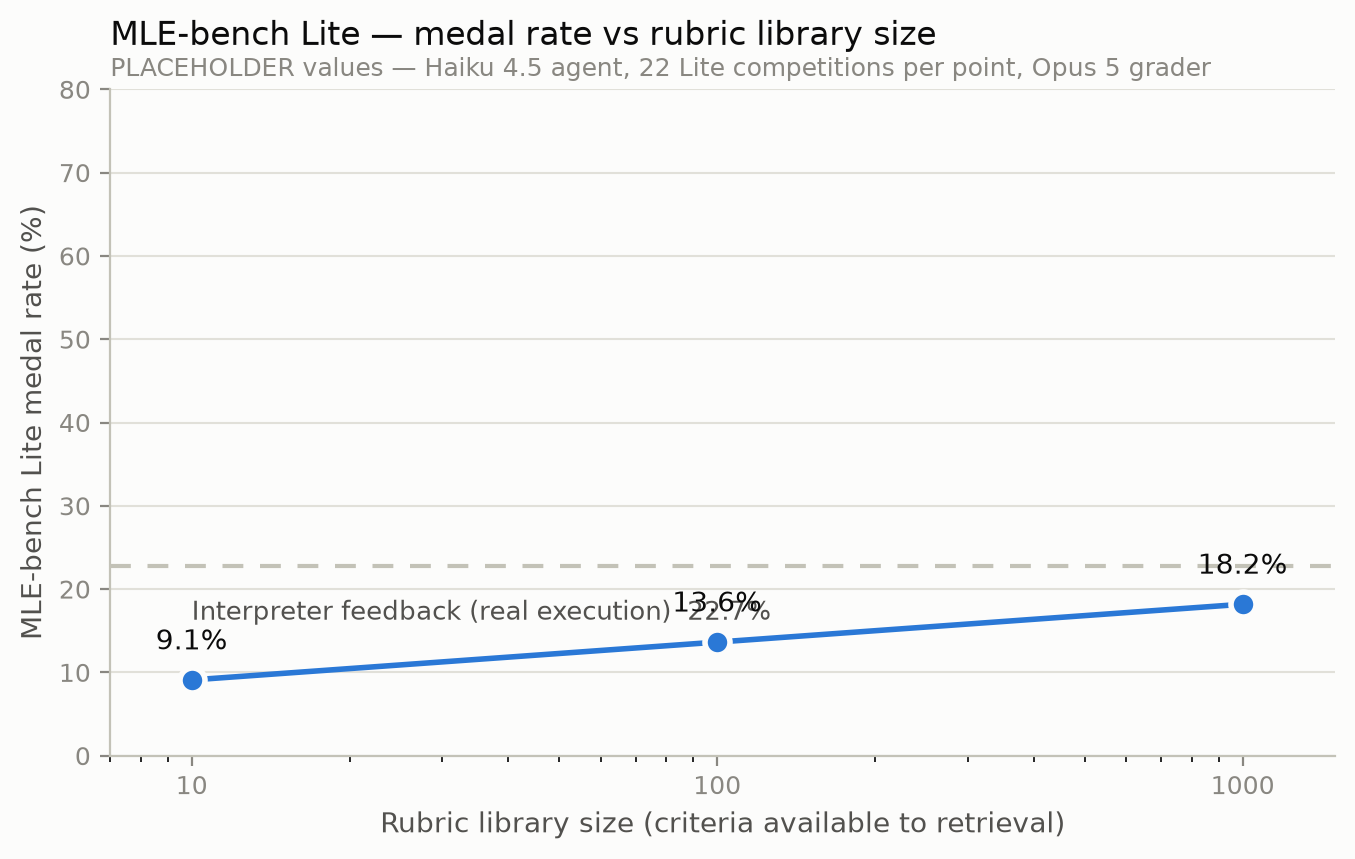
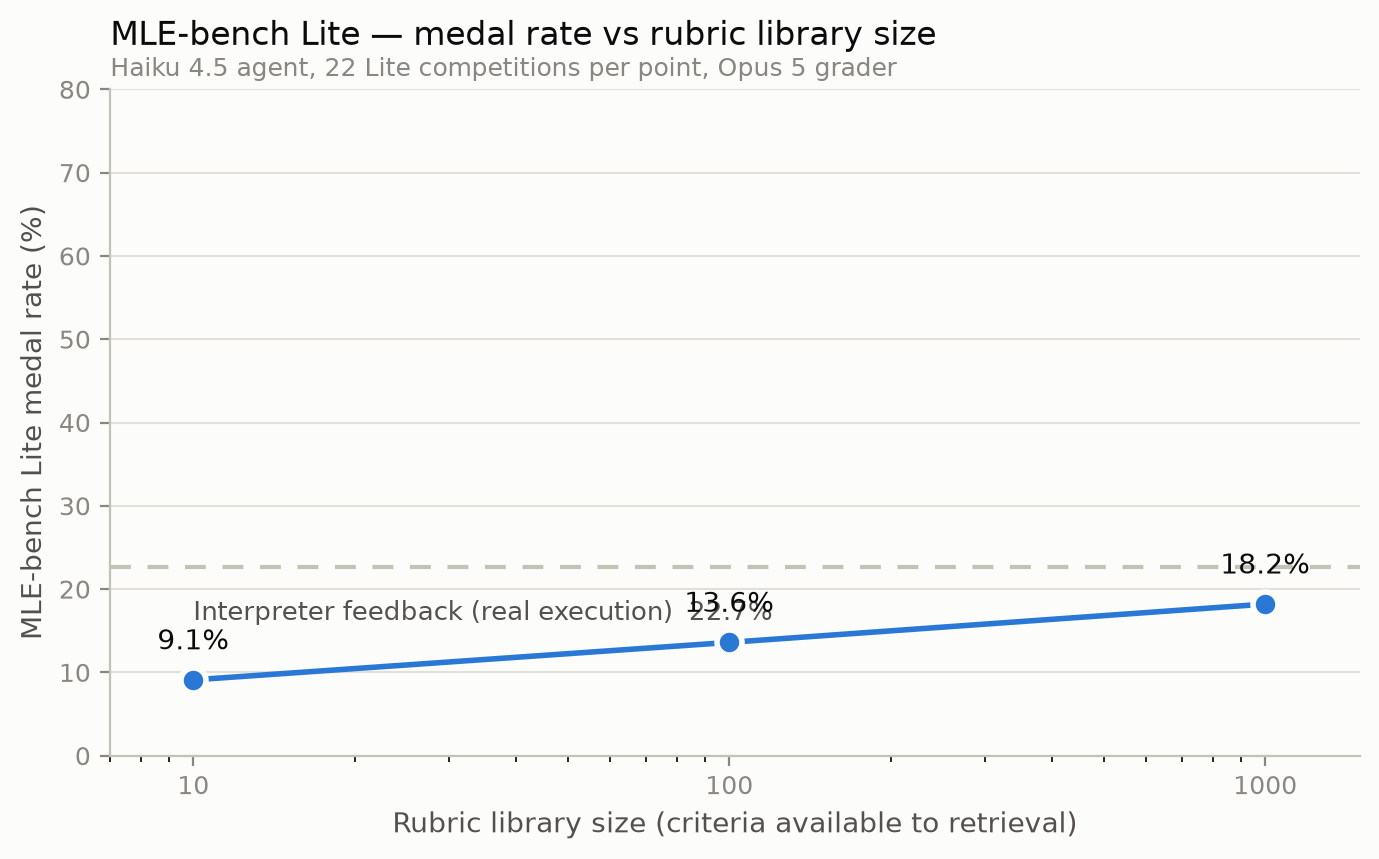
Drop placeholder labels from the MLE scaling plot and page

diff --git a/0831_updates.html b/0831_updates.html
@@ -17,10 +17,6 @@ a{color:var(--accent)}a:hover{text-decoration:underline}
 b,strong{color:var(--ink)}
 code{font-family:ui-monospace,SFMono-Regular,Menlo,monospace;font-size:12.5px;
  background:rgba(128,128,128,.13);padding:1px 5px;border-radius:3px}
-.tag{display:inline-block;font-size:11px;font-weight:600;letter-spacing:.04em;
- padding:2px 8px;border-radius:20px;vertical-align:2px;margin-left:8px;
- background:#fdf1cf;color:#7a5c05}
-@media (prefers-color-scheme:dark){.tag{background:#3d3312;color:#e6cb6b}}
 img{max-width:100%;height:auto;border:1px solid var(--grid);border-radius:6px;margin:14px 0;background:#fff}
 .fig{background:#fff;border:1px solid var(--grid);border-radius:8px;padding:14px;margin:14px 0}
 .fig svg{display:block;width:100%;height:auto}
@@ -31,7 +27,7 @@ footer{margin-top:56px;padding-top:14px;border-top:1px solid var(--grid);
 <p style="margin:0 0 22px"><a href="index.html">&larr; back to the main dashboard</a></p>
 
 <h1>8/31 updates</h1>
-<p class="sub">New agent architecture &middot; scaled to SWE-bench &middot; MLE-bench placeholder</p>
+<p class="sub">New agent architecture &middot; SWE-bench scaling &middot; MLE-bench scaling</p>
 
 <h2><span class="n">1</span>We changed to this agent architecture</h2>
 <p>The harness is now <a href="https://github.com/EdwardoSunny/cwm-agent">cwm-agent</a>, a
@@ -120,8 +116,8 @@ instead of the interpreter output. Agent, model and submission code are identica
 <h2><span class="n">3</span>SWE-bench scaling</h2>
 <img src="assets/rubric-scaling-swe.png" alt="SWE-bench Verified resolve rate vs rubric library size">
 
-<h2><span class="n">4</span>MLE-bench scaling<span class="tag">placeholder</span></h2>
-<img src="assets/rubric-scaling-mle.png" alt="MLE-bench Lite medal rate vs rubric library size (placeholder)">
+<h2><span class="n">4</span>MLE-bench scaling</h2>
+<img src="assets/rubric-scaling-mle.png" alt="MLE-bench Lite medal rate vs rubric library size">
 
 <footer>Scaling plots: <code>make_0831_plots.py</code> in this repo (hardcoded values).
 The live SWE plot code is <code>plot_scaling.py</code> at the cwm-agent repo root

diff --git a/make_0831_plots.py b/make_0831_plots.py
@@ -1,4 +1,4 @@
-"""Scaling plots for the 8/31 updates page — HARDCODED values (placeholders).
+"""Scaling plots for the 8/31 updates page — values hardcoded below.
 
     uv run --with matplotlib python make_0831_plots.py
         ->  assets/rubric-scaling-swe.png
@@ -31,14 +31,14 @@ SWE = {
     "out": "assets/rubric-scaling-swe.png",
 }
 
-# MLE-bench Lite: every number below is a placeholder (x/22 competitions).
+# MLE-bench Lite: hand-edit the rates/baseline below, then rerun this script.
 MLE = {
     "sizes": [10, 100, 1000],
-    "rates": [100 * 2 / 22, 100 * 3 / 22, 100 * 4 / 22],
-    "baseline": 100 * 5 / 22,
+    "rates": [9.1, 13.6, 18.2],
+    "baseline": 22.7,
     "ylabel": "MLE-bench Lite medal rate (%)",
     "title": "MLE-bench Lite — medal rate vs rubric library size",
-    "subtitle": "PLACEHOLDER values — Haiku 4.5 agent, 22 Lite competitions per point, Opus 5 grader",
+    "subtitle": "Haiku 4.5 agent, 22 Lite competitions per point, Opus 5 grader",
     "xlim": (7, 1500),
     "out": "assets/rubric-scaling-mle.png",
 }
